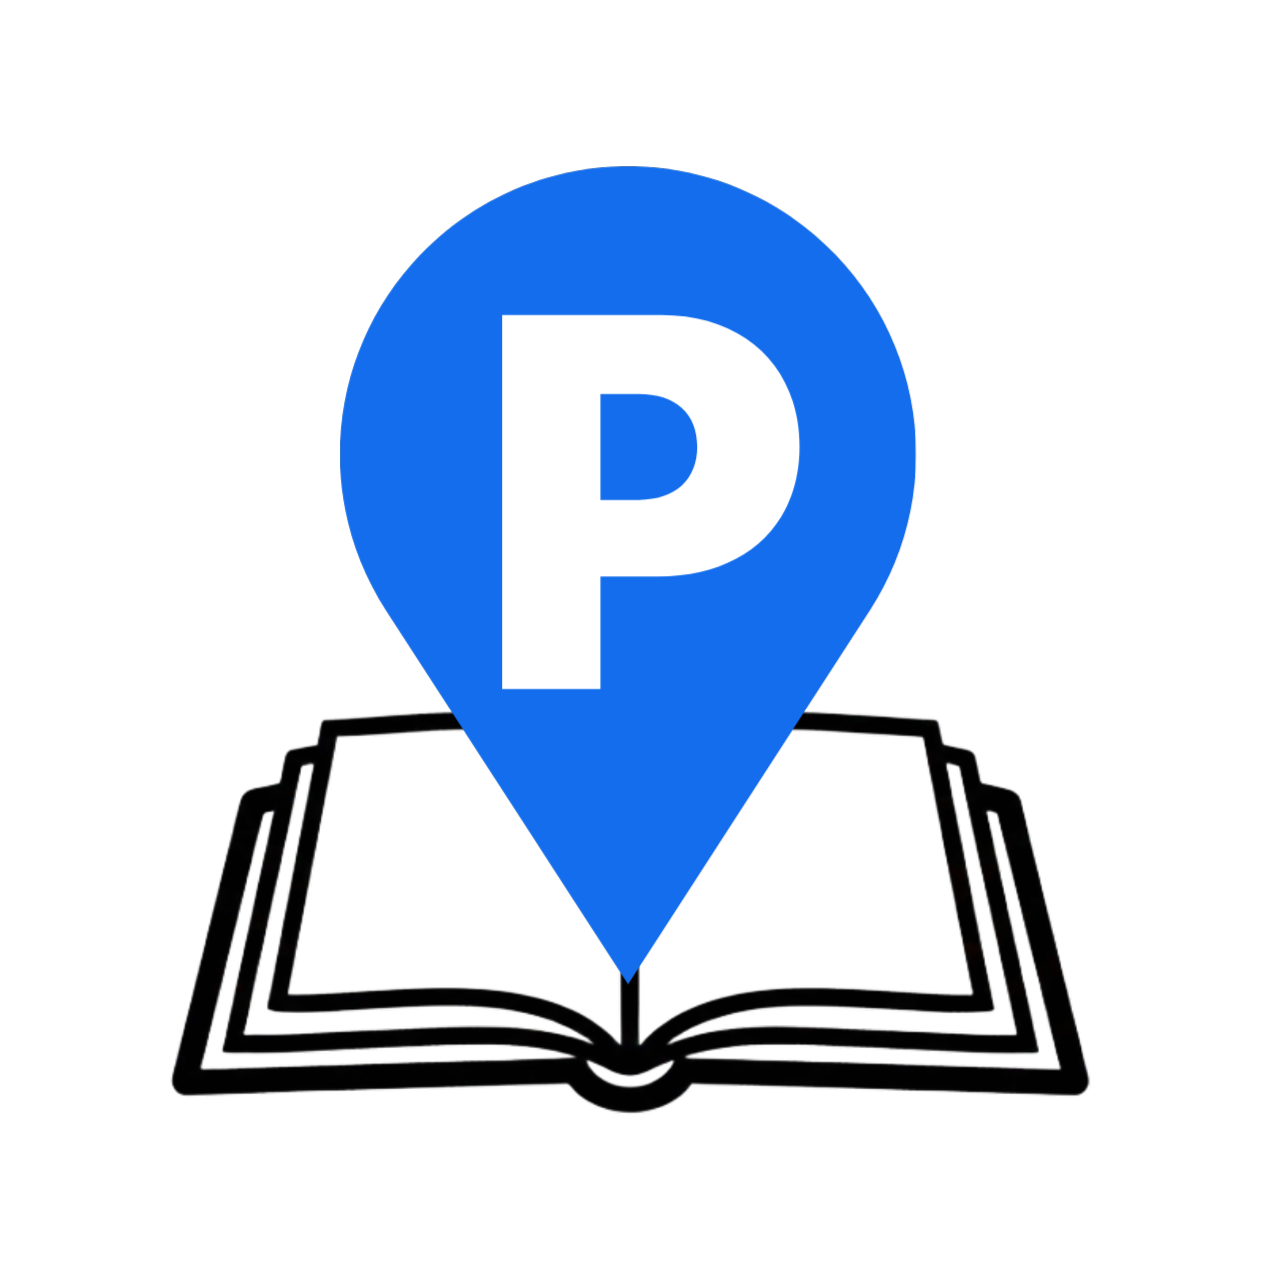
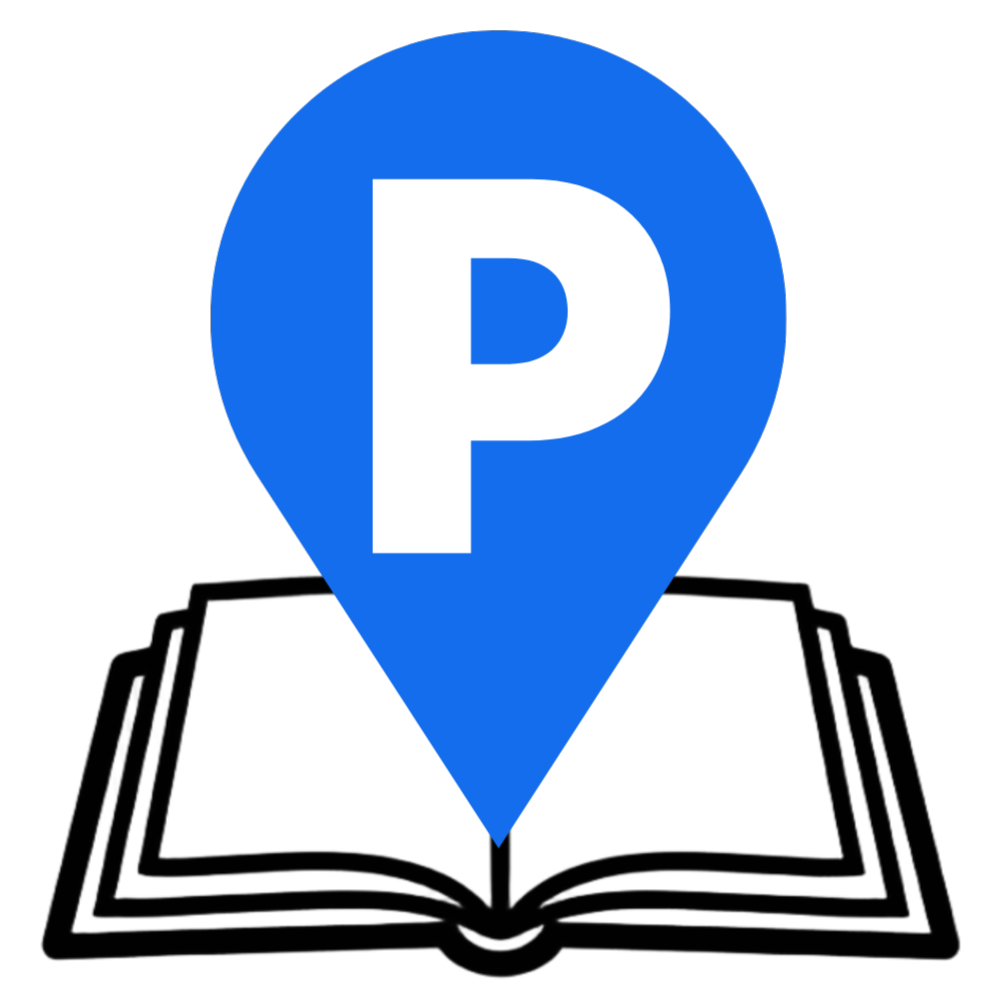
favorite function update 02

diff --git a/lib/core/pdf/pdf_generator.dart b/lib/core/pdf/pdf_generator.dart
@@ -34,7 +34,7 @@ class PdfGenerator {
   static Future<void> _loadLogos() async {
     if (_proppediaLogo == null) {
       try {
-        final data = await rootBundle.load('assets/images/proppedia_logo.png');
+        final data = await rootBundle.load('assets/images/proppedia_icon.png');
         _proppediaLogo = data.buffer.asUint8List();
       } catch (e) {
         // 로고 로드 실패 시 무시

diff --git a/docs/progress development.md b/docs/progress development.md
@@ -566,43 +566,63 @@
 
 &nbsp; **로고 다크모드 투명 문제**
 &nbsp; - 문제: 로고의 책 부분이 투명 처리되어 다크모드에서 안보임
-&nbsp; - 해결: "fillbook" 버전 로고로 교체 (책 부분 흰색 채움)
-&nbsp; - 교체된 파일: `assets/images/proppedia_logo.png`, `assets/images/proppedia_logo_landscape.png`
+&nbsp; - 해결: "fillbook 01" 버전 로고로 교체 (책 부분 흰색 채움, 사이즈 조정)
+&nbsp; - 서버 소스: `/home/webapp/goldenrabbit/backend/assets/proppedia/logo_proppedia_*_fillbook_logo only 01.png`
+&nbsp; - 교체된 파일: `assets/images/proppedia_logo.png` (179KB), `assets/images/proppedia_logo_landscape.png` (196KB)
 &nbsp; - 영향받는 화면: 로그인, 홈 헤더, PDF
 
 &nbsp; ---
 
 
 
-&nbsp; ## 다음 단계: Phase 7 (매물 정보 조회)
+&nbsp; ## Phase 7: 매물 정보 연동 ✅ 완료 (2026-02-13)
 
 
+### 설계 변경
 
-&nbsp; 구현 예정:
+**기존 계획**: 앱 내에 매물 목록/상세/지도 화면 구현
 
-&nbsp; - Property 모델 정의
-
-&nbsp; - PropertyRepository + PropertyApi 구현
-
-&nbsp; - HomeScreen (매물 검색 인터페이스)
-
-&nbsp; - PropertyListView (카테고리별 매물 목록)
-
-&nbsp; - PropertyCard 위젯
-
-&nbsp; - PropertyDetailScreen (매물 상세)
-
-&nbsp; - 조건 검색 (매가, 수익률, 면적 등)
+**변경된 방향**: 앱스토어 정책 및 서비스 분리 원칙에 따라 변경
+- Proppedia(부동산백과): 순수 부동산 정보 검색 전용
+- 금토끼부동산 매물정보: goldenrabbit.biz 웹사이트로 연동
 
 
+### 구현된 기능:
 
-&nbsp; 연동할 API:
+**햄버거 메뉴 (Drawer) 추가**
+- `lib/presentation/screens/home/home_screen.dart`
+  - 좌측 상단 햄버거 메뉴 버튼 추가
+  - "금토끼부동산 매물정보" → goldenrabbit.biz 외부 링크
+  - "앱 정보" → 앱 정보 다이얼로그
+  - 하단에 금토끼부동산 제작 정보 표시
 
-&nbsp; - GET /api/property-list
 
-&nbsp; - GET /api/category-properties?view=...
+### 서버 API (참고용 - 웹앱에서 사용)
 
-&nbsp; - GET /api/property-detail?id=...
+서버에는 매물 API가 구현되어 있음 (웹앱 goldenrabbit.biz에서 사용):
+- `GET /app/api/properties` - 매물 목록
+- `POST /app/api/properties/search` - 조건 검색
+- `GET /app/api/properties/{id}` - 매물 상세
+- `GET /app/api/properties/{id}/image` - 이미지
+- `POST /app/api/properties/map` - 지도 마커
+
+
+### 삭제된 파일:
+
+앱 내 매물 기능 관련 파일 모두 삭제:
+- `lib/presentation/screens/property/*` (3개 화면)
+- `lib/presentation/providers/property_provider.dart`
+- `lib/data/repositories/property_repository.dart`
+- `lib/data/datasources/remote/property_api.dart`
+- `lib/data/dto/property_dto.dart` 및 생성 파일
+
+
+### 컨셉 유지:
+
+goldenrabbit.biz/app 웹앱과 동일한 구조:
+- 햄버거 메뉴 → "금토끼부동산 매물정보" → goldenrabbit.biz 이동
+- goldenrabbit.biz에서 매물지도/매물검색/추천매물 확인
+- goldenrabbit.biz 햄버거 메뉴에서 다시 앱으로 이동 가능
 
 
 
